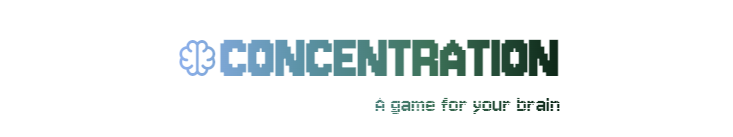
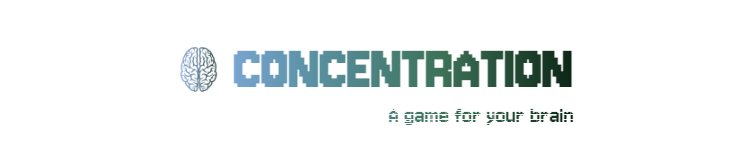
updated readme

Changed region(s): [[0.2401, 0.2628, 0.7804, 0.6423], [0.5102, 0.7299, 0.7804, 0.8759]]

diff --git a/index.html b/index.html
@@ -21,6 +21,7 @@
     <div class="overlay hidden"></div>
     <div class="title">
         <div class="main-title">
+            <!-- Modified brain img courtesy of Vector Portal -->
             <img src="assets/images/brain-icon.webp" alt="brain icon" class="title-icon">
             <h1>CONCENTRATION</h1>
         </div>

diff --git a/README.md b/README.md
@@ -135,7 +135,7 @@ The site is deployed via GitHub Pages. Steps to deploy are as follows:
 |----------|---------------|
 | **As a first time user I want:** |
 | To be entertained | The game provides an entertaining experience with minmal learning curve so users can get into the game very quickly |
-|To know how to play | For users that are not familiar with the game there is a how to play positioned directly above the game area. The game is easy to learn and the how to is always there for referring back to if needed | 
+|To know how to play | For users that are not familiar with the game there is a 'how to play' positioned directly above the game area. The game is very easy to learn and the how to is always there for referring back to if needed | 
 | To challenge and improve memory | The positioning of the cards is randomised on every play meaning users memory will always be challenged |
 | To easily use the site | The site is simple to use with minimal fuss and simple design concepts such as a pointer over interactive elements that intuitively tell the user what is interactive. Consecutive plays are made easy by the modal that resets the game |
 | **As a returning user I want** |
@@ -165,9 +165,11 @@ Mobile Devices
 
 [W3C Markup Validator](https://validator.w3.org/)
 
-One error was found in the markup validator which had come across with copied code from google fonts. This was fixed by removing the trailing slash at the end of the tag.
+One issue was found in the markup validator which had come across with copied code from google fonts. This was fixed by removing the trailing slash at the end of the tag.
 
 ![markup-error](/assets/images/w3cMarkupError.png)
+
+![markup-ok](/assets/images/w3c-markup-ok.png)
 
 [W3C CSS Validator](https://jigsaw.w3.org/css-validator/)
 
@@ -181,9 +183,15 @@ JShint found some missing semi-colons which were quickly rectified.
 
 ![jshint](/assets/images/jshint-results.png)
 
+[WAVE](https://wave.webaim.org/)
+
+The WAVE tool for Web Accessibility found no errors
+
+![wave](/assets/images/wave-results.png)
+
 [Google Lighthouse](https://chromewebstore.google.com/detail/lighthouse/blipmdconlkpinefehnmjammfjpmpbjk)
 
-The page was run through Googe Lighthouse for desktop and mobile. Results from Lighthouse were inconsistent despite no changes being made between tests and any changes that were made to try and improve these inconsistencies made no difference. 
+The page was tested using Google Lighthouse for desktop and mobile. Results from Lighthouse were inconsistent despite no changes being made between tests. This seemed to be largely influenced by layout shifts. Despite this, acceptable scores were still achieved and through my own testing of the site on various devices, I did not notice any large layout shifts. Even when throttling was applied through devtools, only a slight layout shift occurred on initial load and did not negatively impact the UX.
 
 Desktop
 ![lighthouse desktop](/assets/images/lighthouse-desktop.png)
@@ -205,7 +213,6 @@ Mobile
 [W3Schools](https://www.w3schools.com/)
 
 [CodeCademy](https://www.codecademy.com/) 
-
 
 #### Images
 
